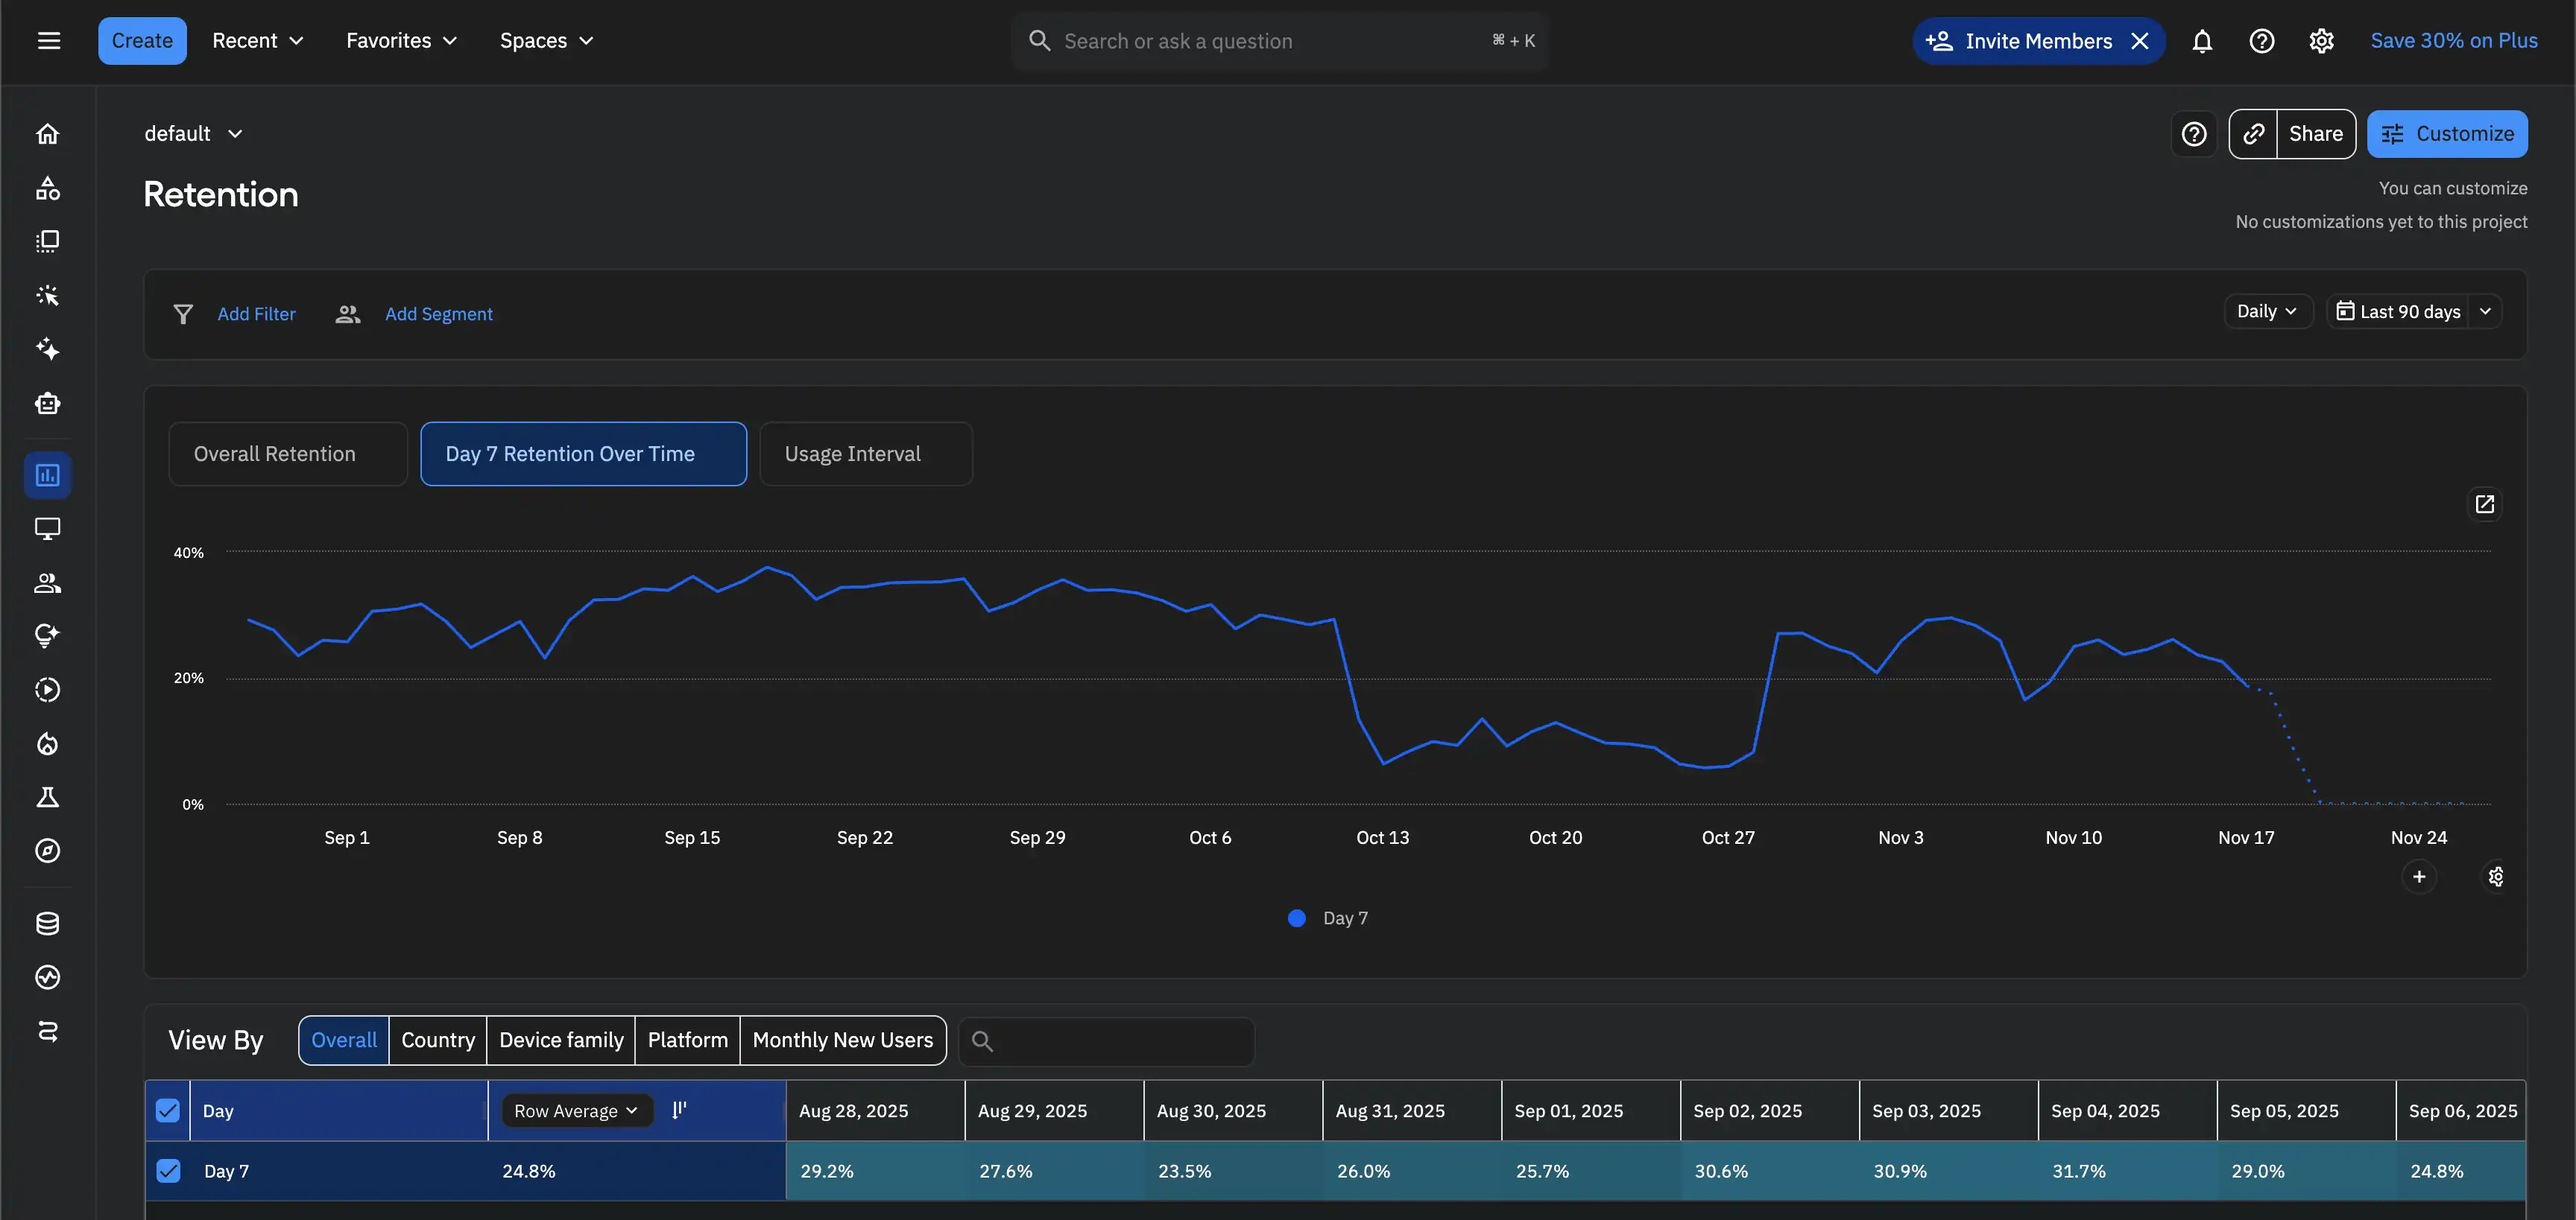
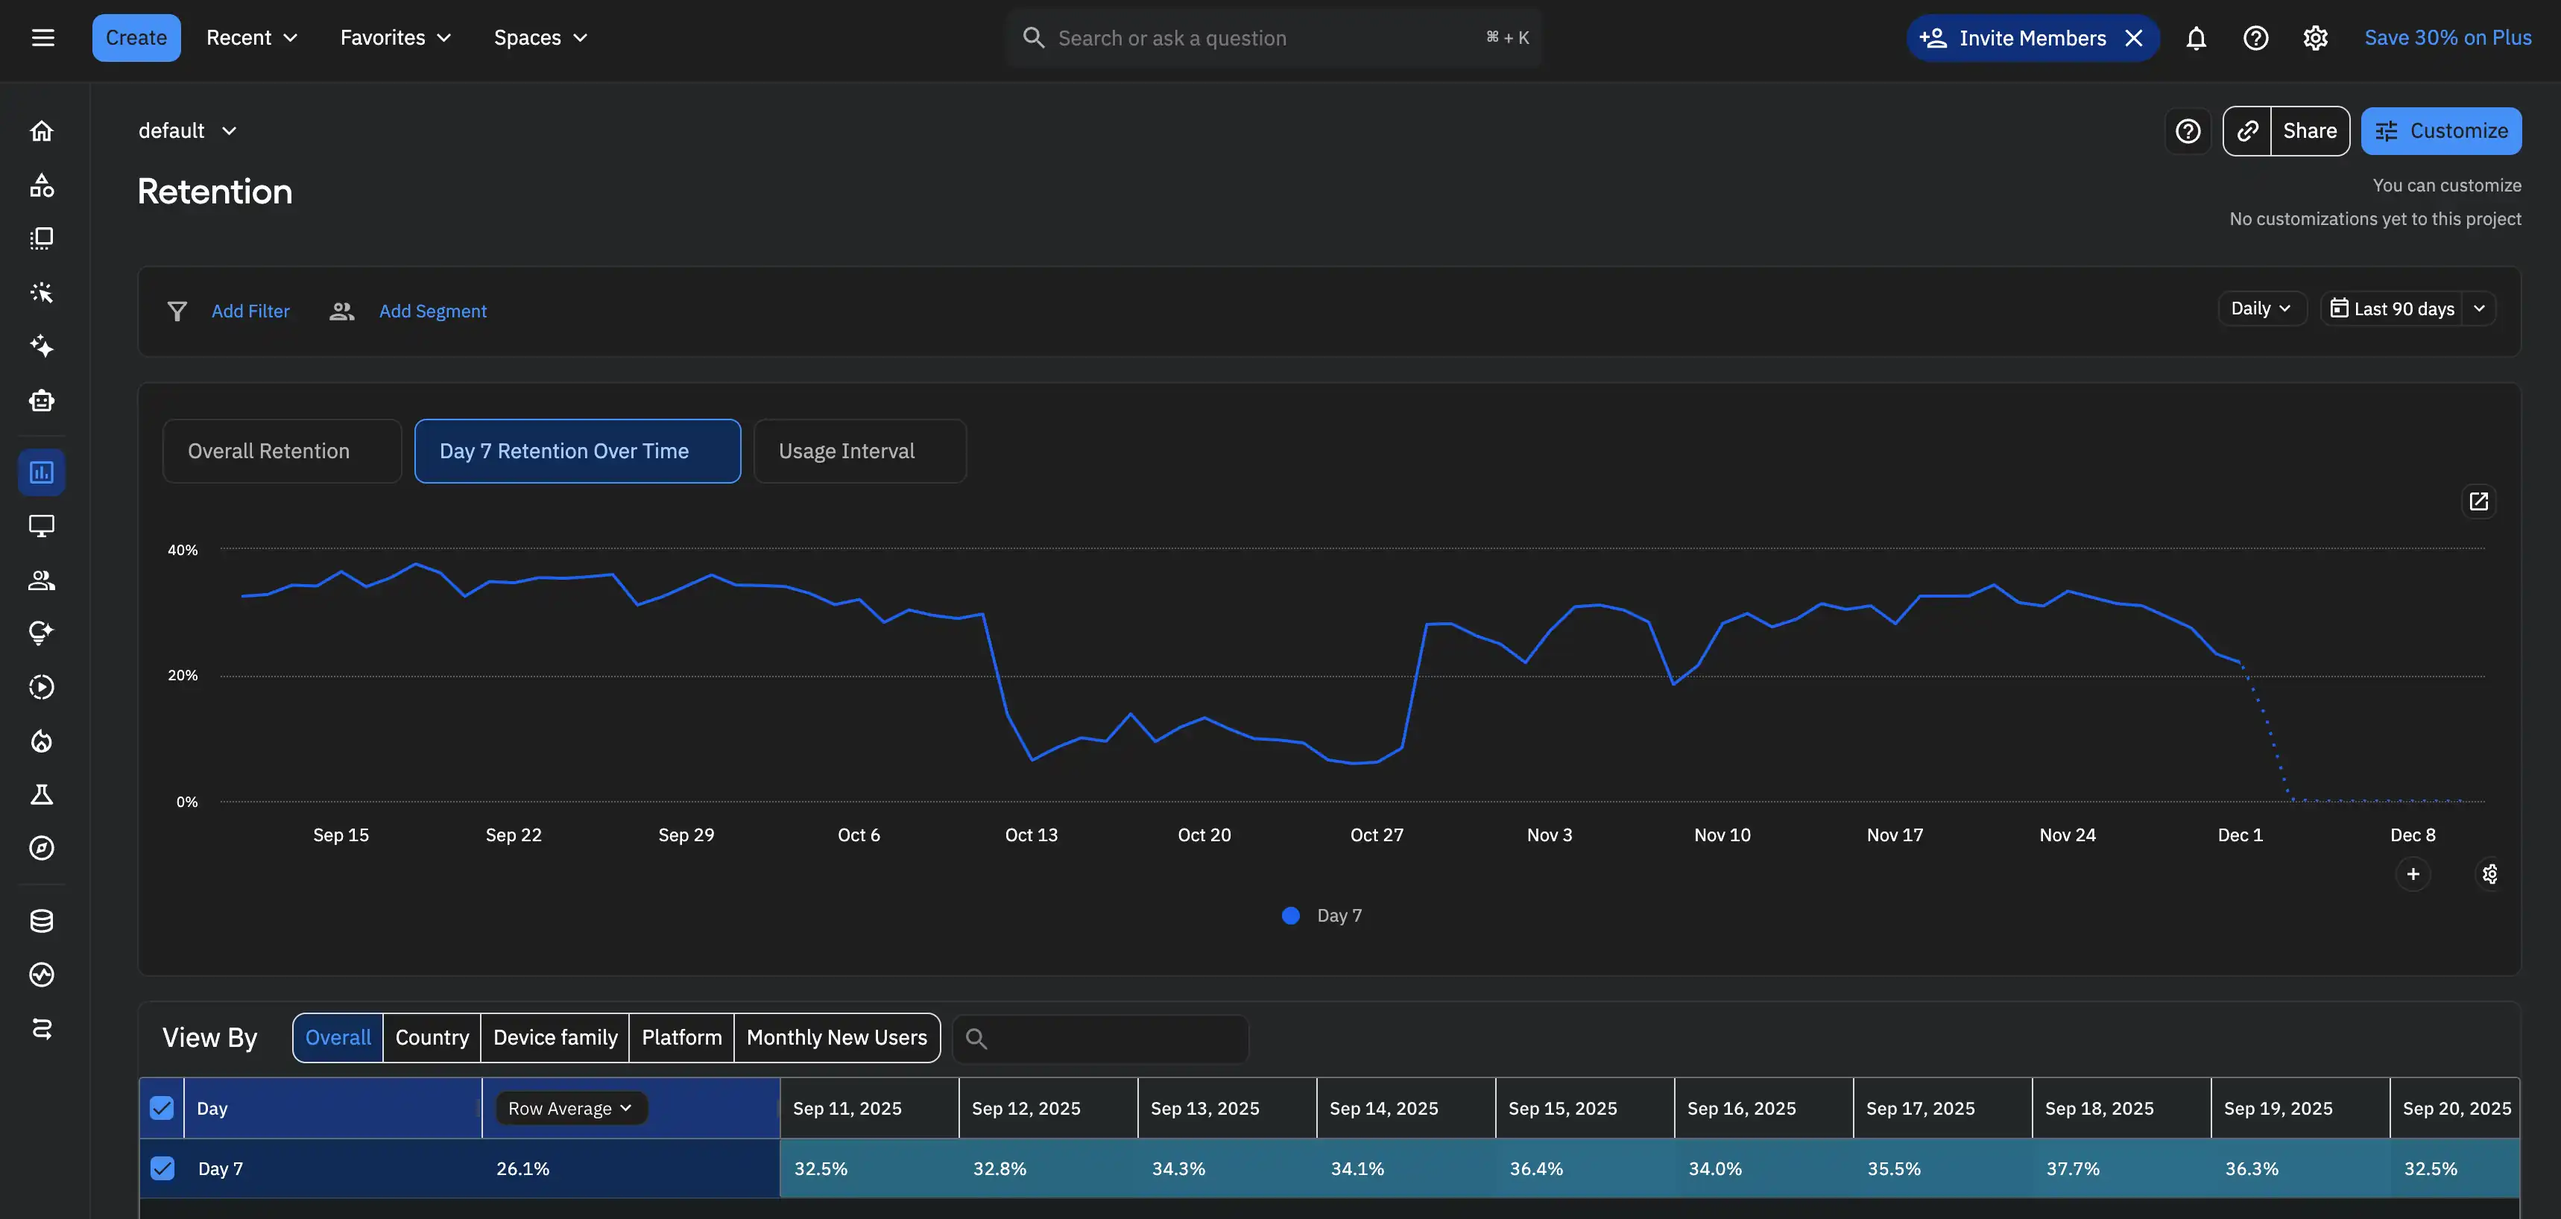
fix: 수치 업데이트

diff --git a/src/app/[lang]/dictionary/project.ts b/src/app/[lang]/dictionary/project.ts
@@ -8,21 +8,21 @@ export const projectDict = {
     ja: '個人プロジェクト',
   },
   googleAnalytics: {
-    ko: '9.1만',
-    en: '91K',
-    zh: '9.1万',
-    ja: '9.1万',
+    ko: '10.2만',
+    en: '102K',
+    zh: '10.2万',
+    ja: '10.2万',
   },
   amplitude: {
-    ko: '24.8%',
-    en: '24.8%',
-    zh: '24.8%',
-    ja: '24.8%',
+    ko: '26.1%',
+    en: '26.1%',
+    zh: '26.1%',
+    ja: '26.1%',
   },
   cloudflareAnalytics: {
-    ko: '88.4%',
-    en: '88.4%',
-    zh: '88.4%',
-    ja: '88.4%',
+    ko: '89.9%',
+    en: '89.9%',
+    zh: '89.9%',
+    ja: '89.9%',
   },
 }

diff --git a/src/app/[lang]/dictionary/general.tsx b/src/app/[lang]/dictionary/general.tsx
@@ -2,10 +2,10 @@ import 'server-only'
 import { formatDate } from './utils'
 
 export const 작성일 = {
-  ko: formatDate(2025, 11, 26, 'ko'),
-  en: formatDate(2025, 11, 26, 'en'),
-  zh: formatDate(2025, 11, 26, 'zh'),
-  ja: formatDate(2025, 11, 26, 'ja'),
+  ko: formatDate(2025, 12, 10, 'ko'),
+  en: formatDate(2025, 12, 10, 'en'),
+  zh: formatDate(2025, 12, 10, 'zh'),
+  ja: formatDate(2025, 12, 10, 'ja'),
 }
 
 export const generalDict = {
